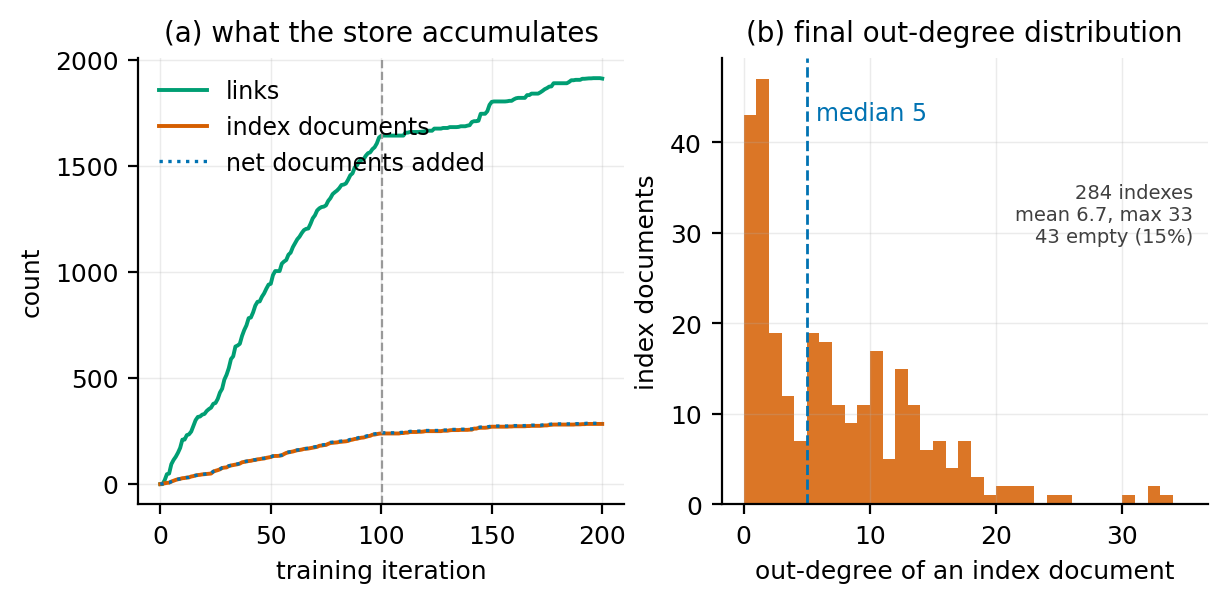
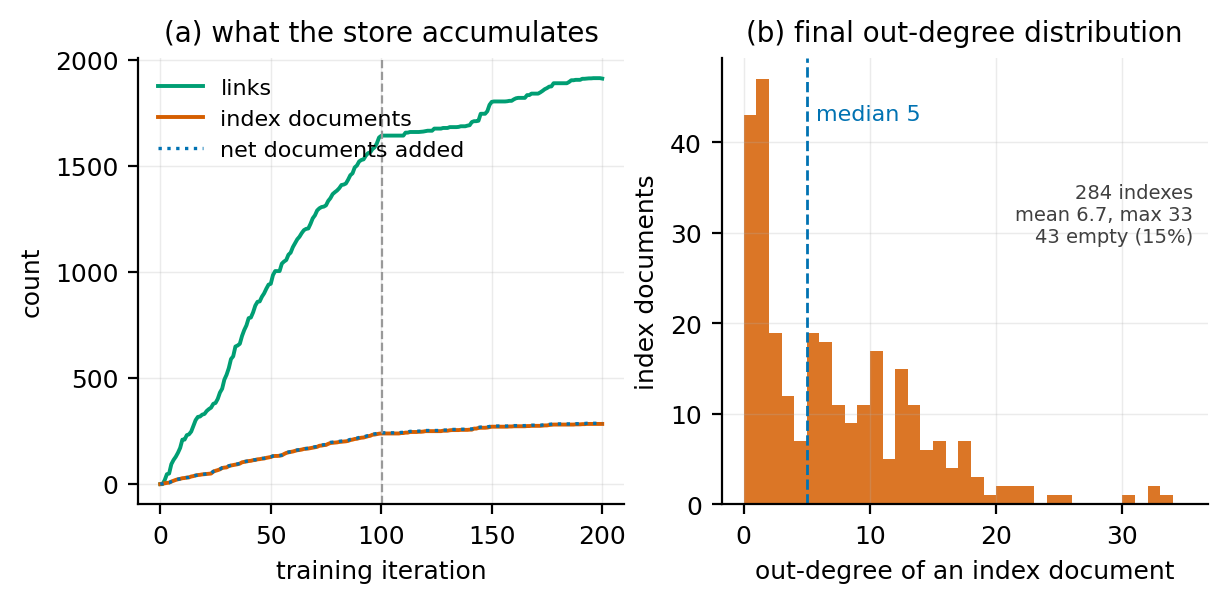
protocol figure back to two columns; shrink Fig 2; compress E3

Changed region(s): [[0.1239, 0.1194, 0.4026, 0.2985], [0.6504, 0.1791, 0.7742, 0.209]]

diff --git a/paper/main.tex b/paper/main.tex
@@ -265,6 +265,7 @@ Our protocol adds the missing measurement layer.
   {F1 (non-inferior?)\\ steps per question ($\rho<1$?)};
 \draw[arr] (exam) -- (out);
 \end{tikzpicture}
+
 \caption{The train/test protocol. A training agent consumes supervised QA pairs,
 answering each from the current store (gold revealed only after its single answer)
 and consolidating verified reasoning into structure. Evaluation freezes the store and
@@ -616,7 +617,7 @@ because it was pre-registered, not because it carries weight.
 \subsection{E2: The Key-Coverage Gradient}\label{sec:res-grad}
 \begin{figure*}[!t]
 \centering
-\includegraphics[width=0.88\textwidth]{learning.pdf}
+\includegraphics[width=0.82\textwidth]{learning.pdf}
 \caption{Six frozen snapshots from epoch~1, read two ways. The reader,
 action set, budget and questions are identical at every point, so the only
 thing varying is the store. \emph{(a, b)} Cost and accuracy per question
@@ -716,7 +717,7 @@ PhantomWiki ships the questions its generator produced rather than the pool
 behind them; the arm also carries no offline-construction baselines, so the
 comparison below is \kbgym{}-only.
 
-\subsection{E2b: Coverage Is the Currency}\label{sec:res-perlink}
+\textbf{Coverage is the currency.}\label{sec:res-perlink}
 B3 answers in fewer actions and at higher F1 than we do, from $100\%$
 coverage against our $27.6\%$: it indexes every entity in the corpus, while a
 hundred training questions name a quarter of it. Its $\rho$ holds between
@@ -828,35 +829,25 @@ Store & trained on & both keys & one key & neither \\
 \end{tabular*}
 \end{table}
 
-\subsection{E3: Retention and Its Per-Category Profile}\label{sec:res-e3}
-\textbf{Retention is large, and concentrated exactly where predicted.} On
-the same 100 questions seen a second time (epoch~2) forward F1 rises from
-$0.63$ to $0.82$. Decomposed by class, the movement is entirely in the relation-level ones. The forward
-chains were saturated from the start (QC1--QC3 and QC9 at $1.00$ in both
-epochs: document-level retrieval already solves them), while the classes
-whose answers live \emph{between} documents move --- counts QC4
-$0.33 \to 1.00$, joins QC6 $0.33 \to 0.92$, reverse lookup QC10
-$0.20 \to 0.60$, intersection QC7 $0.67 \to 0.83$, deep counts QC8
-$0.42 \to 0.58$, abstention QC5 $0.00 \to 0.25$ ($n$ between 5 and 14 per
-class). This is the design
-prediction of E3 realized: the gains land in the classes retrieval cannot
-solve natively.
-
-\textbf{Retention is also cheaper, with a caveat about what is being
-compared.} The forward pass on those questions takes $7.4$ steps and 70k
-tokens in epoch~2 against $8.4$ steps and 118k tokens in epoch~1: $-12\%$
-steps, $-40\%$ tokens. Both terms of the cost move. Budget exhaustion falls
-from $15/100$ to $8/100$, and on the 83 questions resolved within budget in
-\emph{both} epochs the lookup itself shortens from $7.16$ to $6.37$ steps
-($-11\%$) while F1 rises from $0.759$ to $0.892$ --- so the saving is not an
-artifact of more questions terminating early. The caveat is that these two
-epochs are not a controlled store contrast: the store evolves \emph{during}
-epoch~1, so an early epoch-1 question meets a nearly untrained store and a
-late one meets a partly trained store, and the epoch label mixes store state
-with question order. The controlled version --- the same questions examined
-under two frozen stores --- is the \emph{exact} row of
-Table~\ref{tab:gradient}, and it gives a larger saving ($\rho = 0.686$)
-precisely because it removes that mixing.
+\subsection{E3: Retention by Question Class}\label{sec:res-e3}
+On the same 100 questions seen a second time, forward F1 rises $0.63 \to
+0.82$ and the movement is entirely in the relation-level classes: the
+forward chains were saturated from the start (QC1--QC3 and QC9 at $1.00$ in
+both epochs, since document-level retrieval already solves them), while
+counts QC4 go $0.33 \to 1.00$, joins QC6 $0.33 \to 0.92$, reverse lookup
+QC10 $0.20 \to 0.60$, intersection QC7 $0.67 \to 0.83$, deep counts QC8
+$0.42 \to 0.58$ and abstention QC5 $0.00 \to 0.25$ ($n$ between 5 and 14 per
+class). The gains land exactly in the classes retrieval cannot solve
+natively. Cost falls too --- $7.4$ steps and 70k tokens against $8.4$ and
+118k, budget exhaustion $15/100$ to $8/100$, and on the 83 questions
+resolved within budget in \emph{both} epochs the lookup shortens $7.16 \to
+6.37$ steps while F1 rises $0.759 \to 0.892$, so the saving is not an
+artifact of more questions terminating early. These two epochs are not a
+controlled store contrast, though: the store evolves \emph{during} epoch~1,
+so the epoch label mixes store state with question order. The controlled
+version is the \emph{trained} column of Table~\ref{tab:gradient}, which
+gives a larger saving ($\rho = 0.686$) precisely because it removes that
+mixing.
 
 \begin{figure*}[!t]
 \centering

diff --git a/scripts/make_figures.py b/scripts/make_figures.py
@@ -61,7 +61,7 @@ def gradient_and_coverage():
     axis rather than a difference in what a point of coverage is worth.
     """
     import os
-    fig, axes = plt.subplots(2, 2, figsize=(6.9, 5.0))
+    fig, axes = plt.subplots(2, 2, figsize=(6.9, 3.9))
     (a_s, a_f), (b_s, b_f) = axes
 
     # --- top row: per group, against iteration
@@ -126,12 +126,12 @@ def gradient_and_coverage():
         ax.set_ylabel("actions to answer")
     for ax in (a_f, b_f):
         ax.set_ylabel("F1")
-    a_s.set_title("(a) cost, by question group", fontsize=8.5)
-    a_f.set_title("(b) accuracy, by question group", fontsize=8.5)
-    b_s.set_title("(c) cost vs coverage, pooled", fontsize=8.5)
-    b_f.set_title("(d) accuracy vs coverage, pooled", fontsize=8.5)
+    a_s.set_title("(a) cost, by question group", fontsize=8)
+    a_f.set_title("(b) accuracy, by question group", fontsize=8)
+    b_s.set_title("(c) cost vs coverage, pooled", fontsize=8)
+    b_f.set_title("(d) accuracy vs coverage, pooled", fontsize=8)
     a_s.legend(frameon=False, fontsize=6.4, loc="lower left")
-    fig.subplots_adjust(hspace=0.52, wspace=0.28)
+    fig.subplots_adjust(hspace=0.62, wspace=0.26)
     save(fig, "learning")
 
 gradient_and_coverage()
@@ -151,7 +151,7 @@ axa.plot(it, nodes_added, color=BLUE, lw=1.2, ls=":", label="net documents added
 axa.axvline(100.5, color="0.6", ls="--", lw=0.8)
 axa.set_xlabel("training iteration")
 axa.set_ylabel("count")
-axa.legend(frameon=False, fontsize=8.5, loc="upper left")
+axa.legend(frameon=False, fontsize=8, loc="upper left")
 axa.set_title("(a) what the store accumulates", fontsize=10)
 
 # (b) out-degree of every authored index in the final store
@@ -162,7 +162,7 @@ import statistics
 axb.hist(degs, bins=range(0, max(degs) + 3), color=VERM, alpha=0.85, lw=0)
 axb.axvline(statistics.median(degs), color=BLUE, ls="--", lw=1.0)
 axb.text(statistics.median(degs) + 0.7, axb.get_ylim()[1] * 0.86,
-         f"median {statistics.median(degs):.0f}", fontsize=8.5, color=BLUE)
+         f"median {statistics.median(degs):.0f}", fontsize=8, color=BLUE)
 n_empty = sum(1 for d in degs if d == 0)
 axb.text(0.97, 0.72, f"{len(degs)} indexes\nmean {statistics.mean(degs):.1f}, "
          f"max {max(degs)}\n{n_empty} empty ({n_empty/len(degs):.0%})",
